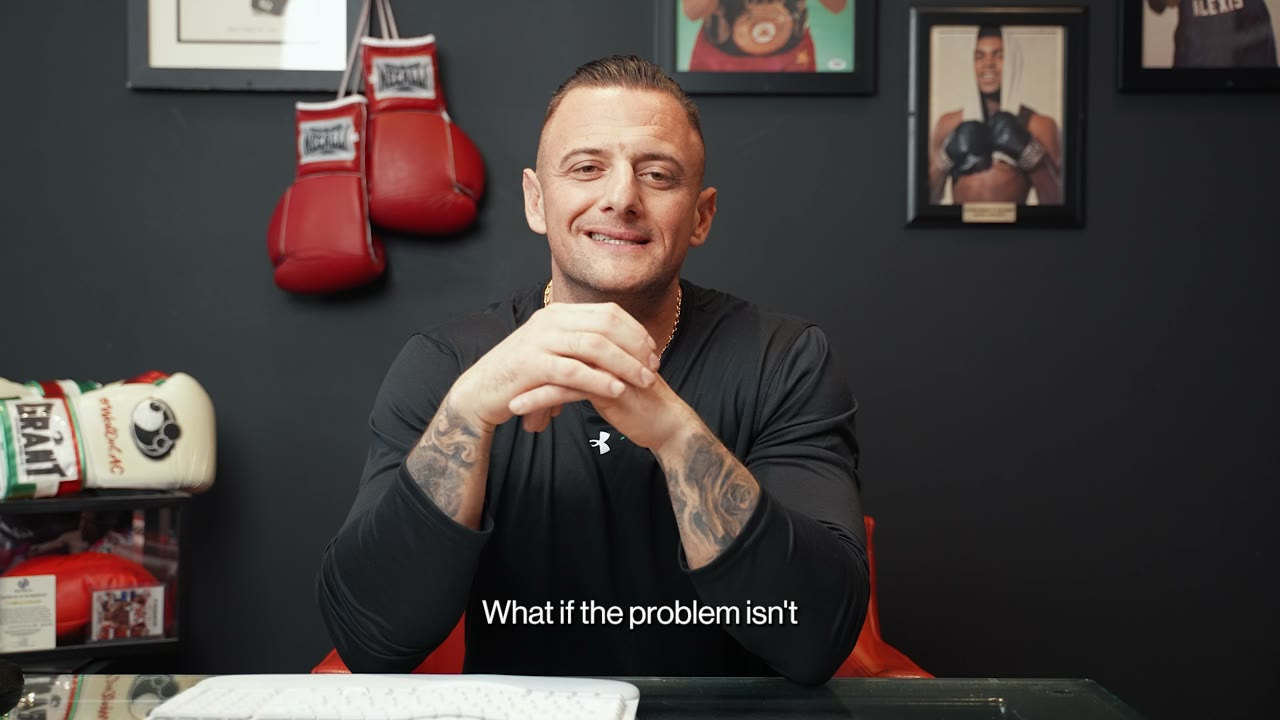
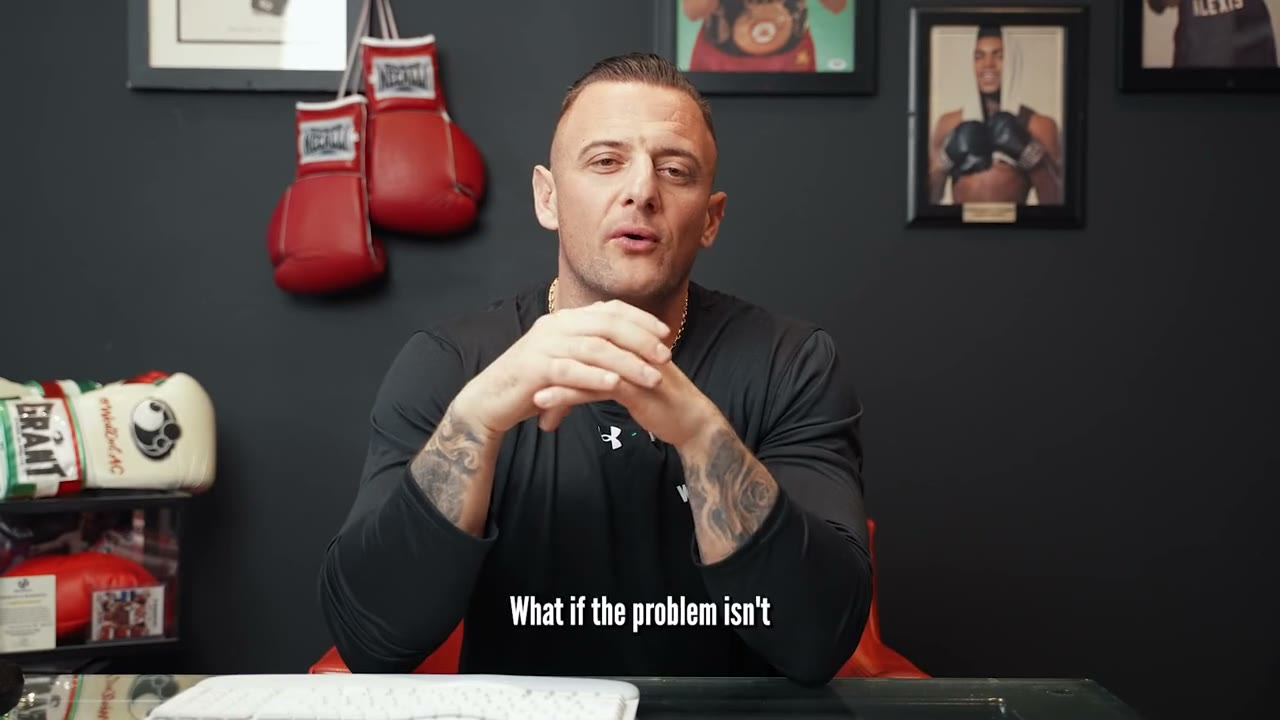
Promo: replace VSL with final V1 cut
Client delivered "VSL Final V1" (1080p master, 74MB). Re-encoded to the
same web profile as the previous version (720p H.264 CRF 23, AAC 128k,
faststart) so page weight stays at ~6MB. Poster regenerated from the new
first frame; VideoObject uploadDate bumped to today. Duration unchanged
at 34s so schema duration stays PT34S.

diff --git a/promo.html b/promo.html
@@ -66,7 +66,7 @@
   <meta name="twitter:image" content="https://www.westendac.com/media/vsl-poster.jpg" />
   <script type="application/ld+json">{"@context": "https://schema.org", "@type": ["SportsActivityLocation", "HealthClub"], "@id": "https://www.westendac.com/#business", "name": "West End Athletic Club", "alternateName": "West End AC", "url": "https://www.westendac.com/", "logo": {"@type": "ImageObject", "url": "https://www.westendac.com/images/logo.png", "width": 961, "height": 708}, "image": "https://www.westendac.com/images/facility-main.jpg", "telephone": "+14166211234", "email": "[email redacted]", "foundingDate": "2015", "priceRange": "$$", "currenciesAccepted": "CAD", "description": "Boxing and fitness gym in Etobicoke, Toronto's west end. Beginner to competitor: group classes, youth boxing, women's classes, strength & conditioning, sparring and an amateur fight team.", "address": {"@type": "PostalAddress", "streetAddress": "283 Bering Ave", "addressLocality": "Etobicoke", "addressRegion": "ON", "postalCode": "M8Z 3A5", "addressCountry": "CA"}, "geo": {"@type": "GeoCoordinates", "latitude": 43.6379801, "longitude": -79.5260065}, "hasMap": "https://www.google.com/maps/place/?q=place_id:ChIJ6Z1uW7c3K4gRCbxjGh6spS4", "openingHoursSpecification": [{"@type": "OpeningHoursSpecification", "dayOfWeek": ["Monday", "Tuesday", "Wednesday", "Thursday"], "opens": "06:00", "closes": "21:00"}, {"@type": "OpeningHoursSpecification", "dayOfWeek": "Friday", "opens": "06:00", "closes": "20:30"}, {"@type": "OpeningHoursSpecification", "dayOfWeek": "Saturday", "opens": "08:00", "closes": "15:00"}, {"@type": "OpeningHoursSpecification", "dayOfWeek": "Sunday", "opens": "09:00", "closes": "14:00"}], "aggregateRating": {"@type": "AggregateRating", "ratingValue": "4.9", "reviewCount": "117", "bestRating": "5", "worstRating": "1"}, "areaServed": [{"@type":"City","name":"Etobicoke"},{"@type":"City","name":"Mimico"},{"@type":"City","name":"New Toronto"},{"@type":"City","name":"Bloor West Village"},{"@type":"City","name":"High Park"},{"@type":"City","name":"The Junction"},{"@type":"City","name":"Roncesvalles"},{"@type":"City","name":"Toronto"}], "sameAs": ["https://www.instagram.com/westend.ac/", "https://www.youtube.com/channel/UCbeOhjUeAoa-WUNYc7QKrGA", "https://www.facebook.com/westendtoronto/", "https://www.linkedin.com/company/west-end-athletic-club/", "https://www.google.com/maps/place/?q=place_id:ChIJ6Z1uW7c3K4gRCbxjGh6spS4"]}</script>
   <script type="application/ld+json">{"@context": "https://schema.org", "@type": "BreadcrumbList", "itemListElement": [{"@type": "ListItem", "position": 1, "name": "Home", "item": "https://www.westendac.com/"}, {"@type": "ListItem", "position": 2, "name": "3 Days Free", "item": "https://www.westendac.com/promo"}]}</script>
-  <script type="application/ld+json">{"@context": "https://schema.org", "@type": "VideoObject", "name": "West End Athletic Club | 3 Days Free", "description": "Why West End is boxing done right: the energy of family, the standards of champions. Claim three free days.", "thumbnailUrl": "https://www.westendac.com/media/vsl-poster.jpg", "uploadDate": "2026-06-22", "duration": "PT34S", "contentUrl": "https://www.westendac.com/media/vsl.mp4", "publisher": {"@type": "Organization", "name": "West End Athletic Club", "logo": {"@type": "ImageObject", "url": "https://www.westendac.com/images/logo.png"}}}</script>
+  <script type="application/ld+json">{"@context": "https://schema.org", "@type": "VideoObject", "name": "West End Athletic Club | 3 Days Free", "description": "Why West End is boxing done right: the energy of family, the standards of champions. Claim three free days.", "thumbnailUrl": "https://www.westendac.com/media/vsl-poster.jpg", "uploadDate": "2026-07-22", "duration": "PT34S", "contentUrl": "https://www.westendac.com/media/vsl.mp4", "publisher": {"@type": "Organization", "name": "West End Athletic Club", "logo": {"@type": "ImageObject", "url": "https://www.westendac.com/images/logo.png"}}}</script>
   <script type="application/ld+json">{"@context": "https://schema.org", "@type": "WebPage", "@id": "https://www.westendac.com/promo#webpage", "url": "https://www.westendac.com/promo", "name": "3 Days Free | West End Athletic Club", "isPartOf": {"@id": "https://www.westendac.com/#website"}, "about": {"@id": "https://www.westendac.com/#business"}, "primaryImageOfPage": "https://www.westendac.com/media/vsl-poster.jpg", "inLanguage": "en-CA", "dateModified": "2026-07-04"}</script>
   <script type="application/ld+json">{"@context": "https://schema.org", "@type": "FAQPage", "mainEntity": [{"@type": "Question", "name": "What does \"no catch\" actually mean?", "acceptedAnswer": {"@type": "Answer", "text": "It means we don't ask for a credit card. You don't get auto-enrolled in anything. After your three days, you decide: sign up, walk away, or take more time to think. Whatever you want."}}, {"@type": "Question", "name": "Do I need to bring anything?", "acceptedAnswer": {"@type": "Answer", "text": "Athletic clothes, water bottle, towel. Hand wraps and gloves are provided on your first class. After that, we can recommend a starter set if you decide to stay."}}, {"@type": "Question", "name": "What if I've never boxed before?", "acceptedAnswer": {"@type": "Answer", "text": "Perfect. Most first-timers start in Tech-Fit Boxing or The Boxing Blueprint: no contact, no sparring, just the fundamentals taught at your pace. Your coach will walk you through every move."}}]}</script>
 </head>